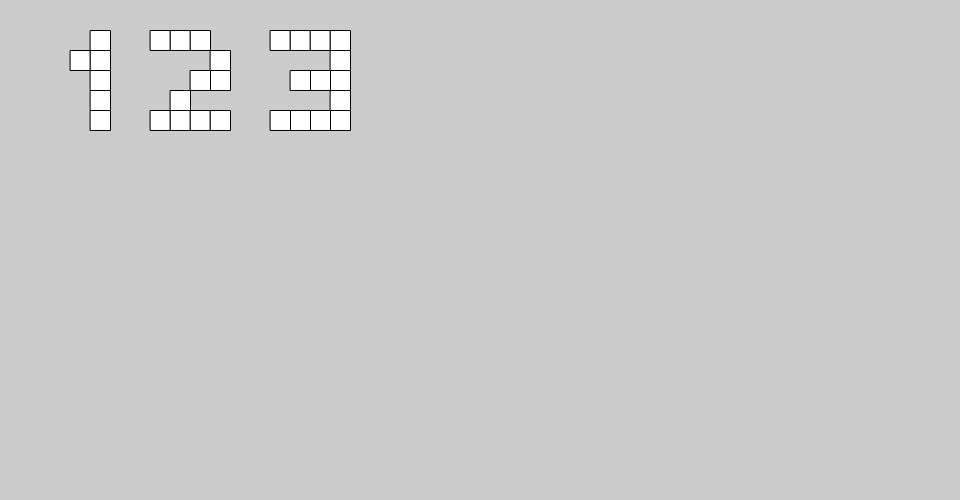
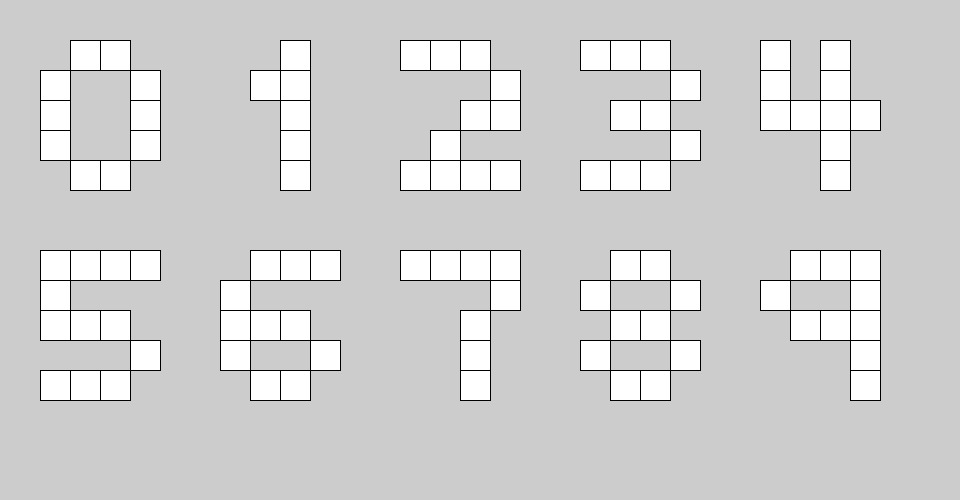
completed block font

diff --git a/clock.js b/clock.js
@@ -3,53 +3,154 @@
  */ 
 
 /* size of square */
-var s = 20
+var s = 30
+
+var numbers = [
+  // 0
+  [
+    [2, 1],
+    [3, 1],
+    [1, 2],
+    [4, 2],
+    [1, 3],
+    [4, 3],
+    [1, 4],
+    [4, 4],
+    [2, 5],
+    [3, 5],
+  ],
+  // 1
+  [
+    [2, 2],
+    [3, 1],
+    [3, 2],
+    [3, 3],
+    [3, 4],
+    [3, 5]
+  ],
+  // 2
+  [
+    [1, 1],
+    [2, 1],
+    [3, 1],
+    [4, 2],
+    [4, 3],
+    [3, 3],
+    [2, 4],
+    [1, 5],
+    [2, 5],
+    [3, 5],
+    [4, 5]
+  ],
+  [ // 3
+    [1, 1],
+    [2, 1],
+    [3, 1],
+    [4, 2],
+    [3, 3],
+    [2, 3],
+    [4, 4],
+    [3, 5],
+    [2, 5],
+    [1, 5]
+  ],
+  [ // 4
+    [1, 1],
+    [3, 1],
+    [1, 2],
+    [3, 2],
+    [1, 3],
+    [2, 3],
+    [3, 3],
+    [4, 3],
+    [3, 4],
+    [3, 5]
+  ],
+  [ // 5
+    [1, 1],
+    [2, 1],
+    [3, 1],
+    [4, 1],
+    [1, 2],
+    [1, 3],
+    [2, 3],
+    [3, 3],
+    [4, 4],
+    [3, 5],
+    [2, 5],
+    [1, 5]
+  ],
+  [ // 6
+    [2, 1],
+    [3, 1],
+    [4, 1],
+    [1, 2],
+    [1, 3],
+    [2, 3],
+    [3, 3],
+    [1, 4],
+    [4, 4],
+    [2, 5],
+    [3, 5],
+  ], //7
+  [
+    [1, 1],
+    [2, 1],
+    [3, 1],
+    [4, 1],
+    [4, 2],
+    [3, 3],
+    [3, 4],
+    [3, 5],
+  ],
+  [ // 8
+    [2, 1],
+    [3, 1],
+    [1, 2],
+    [4, 2],
+    [2, 3],
+    [3, 3],
+    [1, 4],
+    [4, 4],
+    [2, 5],
+    [3, 5],
+  ],
+  [ // 9
+    [2, 1],
+    [3, 1],
+    [4, 1],
+    [1, 2],
+    [4, 2],
+    [2, 3],
+    [3, 3],
+    [4, 3],
+    [4, 4],
+    [4, 5]
+  ],
+]
 
 function draw_number(num, x, y) {
   /* this resets any previous translations */
   resetMatrix();
   translate(x, y);
-  if (num === 1) {
-    rect(s * 3, s * 2, s, s);
-    rect(s * 4, s * 1, s, s);
-    rect(s * 4, s * 2, s, s);
-    rect(s * 4, s * 3, s, s);
-    rect(s * 4, s * 4, s, s);
-    rect(s * 4, s * 5, s, s);
-  }
-  else if (num === 2) {
-    rect(s * 1, s * 1, s, s);
-    rect(s * 2, s * 1, s, s);
-    rect(s * 3, s * 1, s, s);
-    rect(s * 4, s * 2, s, s);
-    rect(s * 4, s * 3, s, s);
-    rect(s * 3, s * 3, s, s);
-    rect(s * 2, s * 4, s, s);
-    rect(s * 1, s * 5, s, s);
-    rect(s * 2, s * 5, s, s);
-    rect(s * 3, s * 5, s, s);
-    rect(s * 4, s * 5, s, s);
-  }
-  else if (num === 3) {
-    rect(s * 1, s * 1, s, s);
-    rect(s * 2, s * 1, s, s);
-    rect(s * 3, s * 1, s, s);
-    rect(s * 4, s * 1, s, s);
-    rect(s * 4, s * 2, s, s);
-    rect(s * 4, s * 3, s, s);
-    rect(s * 3, s * 3, s, s);
-    rect(s * 2, s * 3, s, s);
-    rect(s * 4, s * 4, s, s);
-    rect(s * 4, s * 5, s, s);
-    rect(s * 3, s * 5, s, s);
-    rect(s * 2, s * 5, s, s);
-    rect(s * 1, s * 5, s, s);
+  var pixels = numbers[num%numbers.length];
+  for(var i=0; i<13; i++) {
+    var cur_pixel = pixels[i%pixels.length];
+    rect(cur_pixel[0] * s, cur_pixel[1] * s, s, s);
   }
 }
 
 function draw_clock(hour, minute, second, millis, alarm) {
   background(204);
-  draw_number(1, 10, 10);
-  draw_number(2, 130, 10);
-  draw_number(3, 250, 10);
+  draw_number(0, 10, 10);
+  draw_number(1, 10 + 6 * s, 10);
+  draw_number(2, 10 + 12 * s, 10);
+  draw_number(3, 10 + 18 * s, 10);
+  draw_number(4, 10 + 24 * s, 10);
+
+  draw_number(5, 10, 10 + 7 * s);
+  draw_number(6, 10 + 6 * s, 10 + 7 * s);
+  draw_number(7, 10 + 12 * s, 10 + 7 * s);
+  draw_number(8, 10 + 18 * s, 10 + 7 * s);
+  draw_number(9, 10 + 24 * s, 10 + 7 * s);
 }

diff --git a/README.md b/README.md
@@ -1,14 +1,5 @@
 ## PS1 MDDN 242 2017
 
-### Outrageous clock
+### Clock Font
 
-Describe the idea for your clock here - replacing this text.
-Be sure to use complete sentences, and you can reference your 
-image above. You can also include
-[web links](https://en.wikipedia.org/wiki/Clock_of_the_Long_Now)
-to other pages that support your ideas.  The explanation should
-be short but compete, no more than [100 words](https://wordcounter.net/).
-
-Replace the "Outrageous clock" title above with the name of
-your clock. Also update both images keeping their original sizes:
-preview.jpg (960x500) and thumbnail.png (230x120).
+These number forms will be the basis of my clock design.
